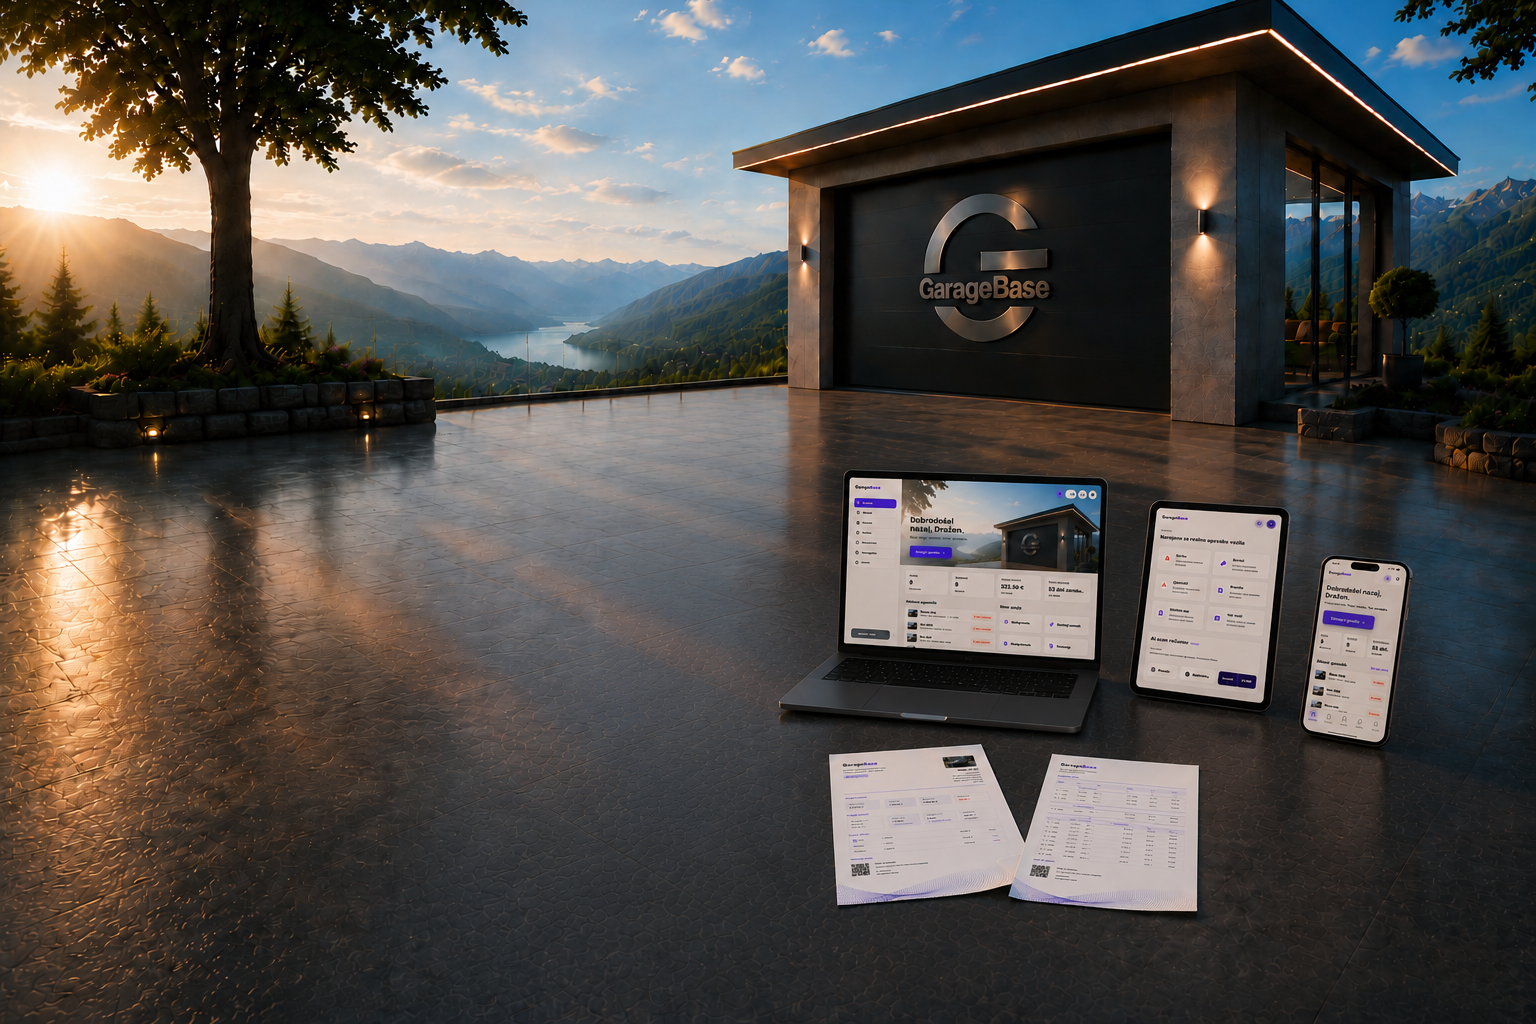
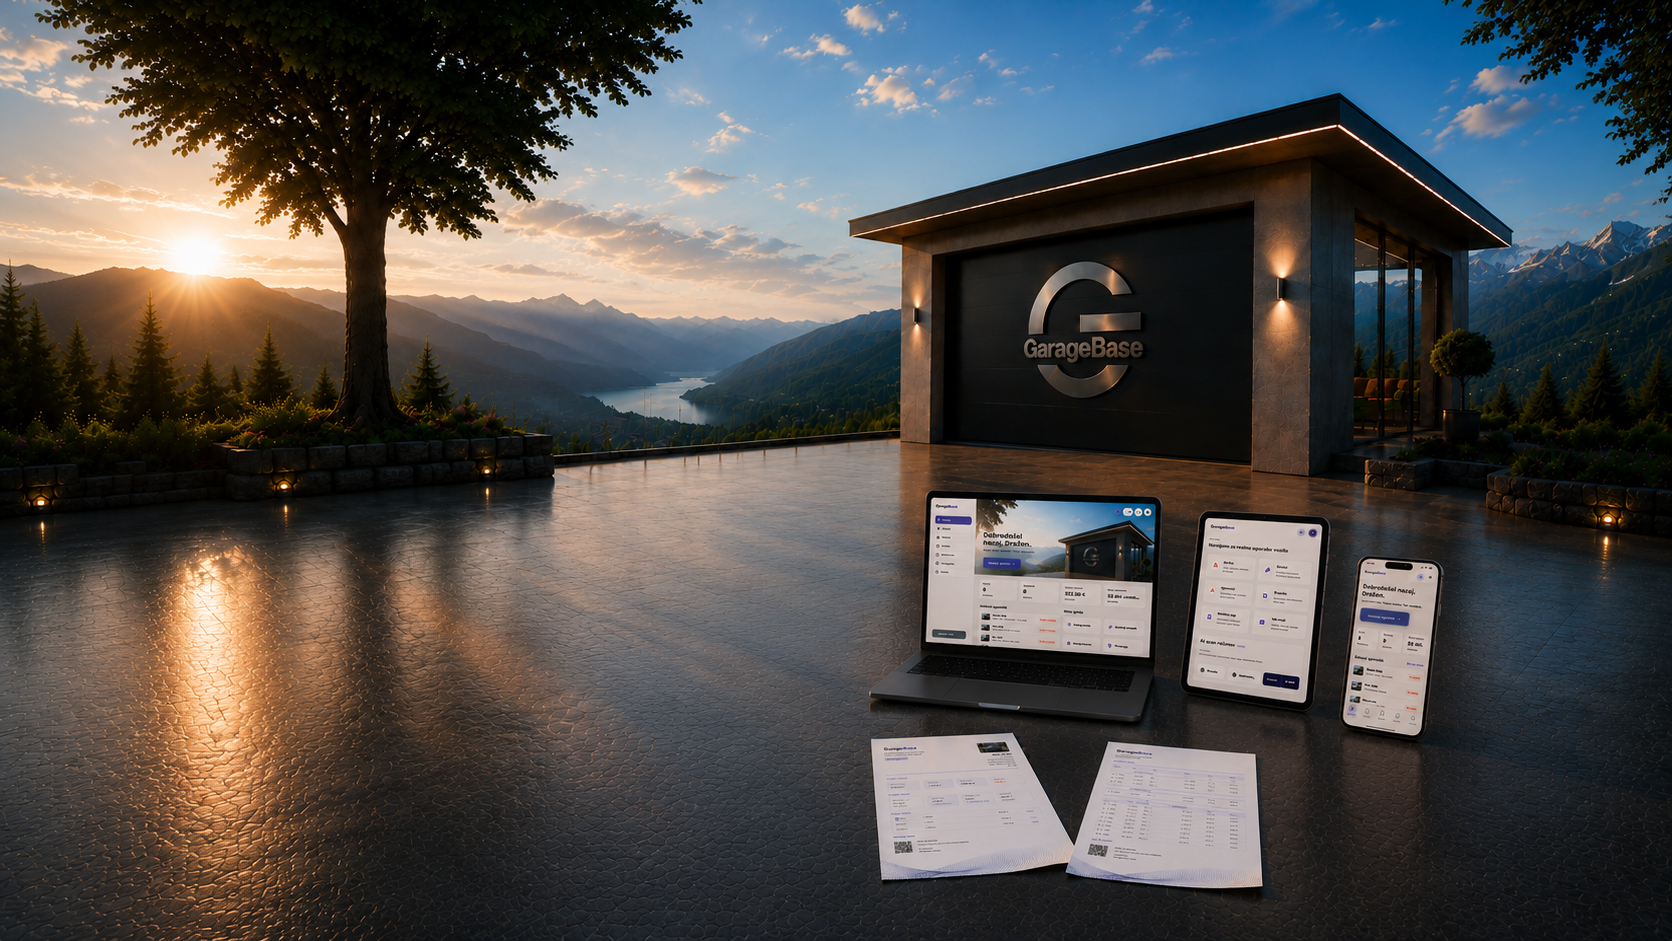
popravi landing hero sliko

diff --git a/src/app/page.tsx b/src/app/page.tsx
@@ -393,11 +393,11 @@ export default function LandingPage() {
         }`}
       >
         <div className="mx-auto grid max-w-[1760px] grid-cols-[minmax(118px,0.58fr)_auto] items-center gap-3 px-3 py-3 sm:grid-cols-[minmax(180px,360px)_1fr] sm:gap-4 sm:px-8 sm:py-4 lg:grid-cols-[minmax(280px,430px)_1fr]">
-          <a href="/" className="gb-landing-brand group relative flex h-14 items-center overflow-hidden rounded-2xl border border-white/12 bg-[#252525]/72 shadow-[0_18px_44px_rgba(0,0,0,0.28)] sm:h-20">
+          <a href="/" className="gb-landing-brand group relative flex h-14 items-center overflow-hidden rounded-2xl border border-white/12 bg-[#252525]/72 p-1 shadow-[0_18px_44px_rgba(0,0,0,0.28)] sm:h-20 sm:p-2">
             <img
               src="/landing-garagebase-3d-logo.jpg"
               alt="GarageBase"
-              className="h-full w-full object-cover object-[45%_58%] transition-transform duration-500 group-hover:scale-[1.025]"
+              className="h-full w-full object-contain object-left transition-transform duration-500 group-hover:scale-[1.015]"
             />
             <span className="pointer-events-none absolute inset-0 rounded-2xl ring-1 ring-inset ring-white/12" />
           </a>
@@ -434,24 +434,24 @@ export default function LandingPage() {
         </div>
       </nav>
 
-      <section className="landing-hero relative min-h-[92svh] overflow-hidden bg-[#120f0d]">
+      <section className="landing-hero relative min-h-[100svh] overflow-hidden bg-[#120f0d] lg:min-h-0">
         <img
           src="/landing-garage-premium-hero.png"
           alt={t.alt}
-          className="landing-hero-image absolute inset-0 h-full w-full object-cover object-[58%_55%]"
+          className="landing-hero-image absolute inset-0 h-full w-full object-cover object-[58%_50%] lg:relative lg:block lg:h-auto lg:w-full lg:object-contain"
         />
         <div className="landing-hero-shade absolute inset-0 bg-[linear-gradient(90deg,rgba(20,14,10,0.18)_0%,rgba(20,14,10,0.04)_38%,rgba(20,14,10,0.08)_100%)]" />
         <div className="landing-top-fade absolute inset-x-0 top-0 h-36 bg-gradient-to-b from-[#0f0d0c]/78 to-transparent" />
         <div className="landing-bottom-fade absolute inset-x-0 bottom-0 h-56 bg-gradient-to-t from-[#1e1711]/86 to-transparent" />
 
-        <div className="relative z-10 mx-auto flex min-h-[92svh] max-w-[1760px] items-end px-5 pb-12 pt-32 sm:px-8 lg:pb-16 lg:pt-36">
-          <div className="landing-copy w-full max-w-[560px] rounded-[30px] border border-[#c9a876]/24 bg-[#3a291c]/78 p-6 shadow-[0_34px_80px_rgba(0,0,0,0.42)] backdrop-blur-md sm:p-8">
+        <div className="relative z-10 mx-auto flex min-h-[100svh] max-w-[1760px] items-end px-5 pb-10 pt-32 sm:px-8 lg:absolute lg:inset-0 lg:left-1/2 lg:-translate-x-1/2 lg:pb-14 lg:pt-36">
+          <div className="landing-copy w-full max-w-[520px] rounded-[30px] border border-[#c9a876]/24 bg-[#3a291c]/78 p-6 shadow-[0_34px_80px_rgba(0,0,0,0.42)] backdrop-blur-md sm:p-7">
             <div className="mb-5 inline-flex items-center gap-2 rounded-full border border-[#f0c987]/24 bg-[#170f0a]/38 px-4 py-2 backdrop-blur-sm">
               <span className="h-2 w-2 rounded-full bg-[#3ecfcf] shadow-[0_0_16px_rgba(62,207,207,0.85)]" />
               <span className="text-xs font-bold uppercase tracking-[0.18em] text-[#f1dfc9]">{t.badge}</span>
             </div>
 
-            <h1 className="mb-5 max-w-[540px] text-4xl font-black leading-[1.02] tracking-tight text-[#fff6ea] sm:text-5xl lg:text-6xl">
+            <h1 className="mb-5 max-w-[500px] text-4xl font-black leading-[1.03] tracking-tight text-[#fff6ea] sm:text-5xl lg:text-[3.35rem]">
               {t.title}
             </h1>
             <p className="mb-7 max-w-[520px] text-base leading-relaxed text-[#f2e4d1]/86 sm:text-lg">
